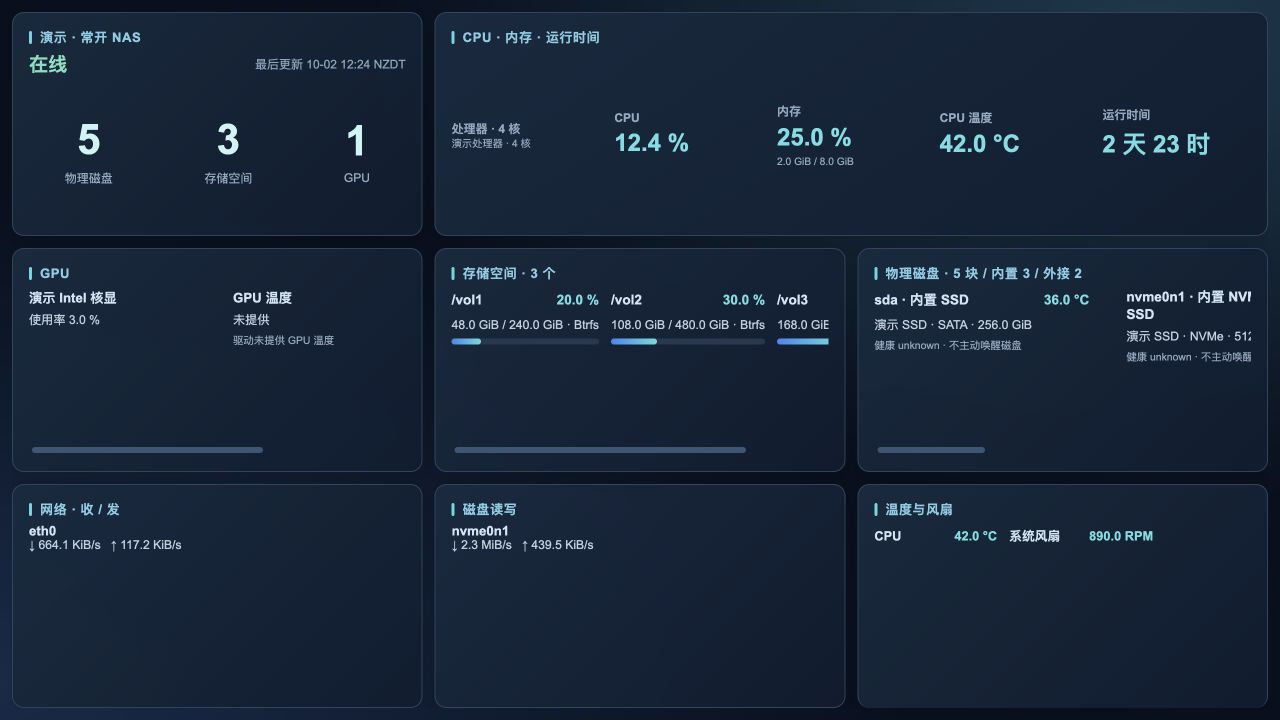
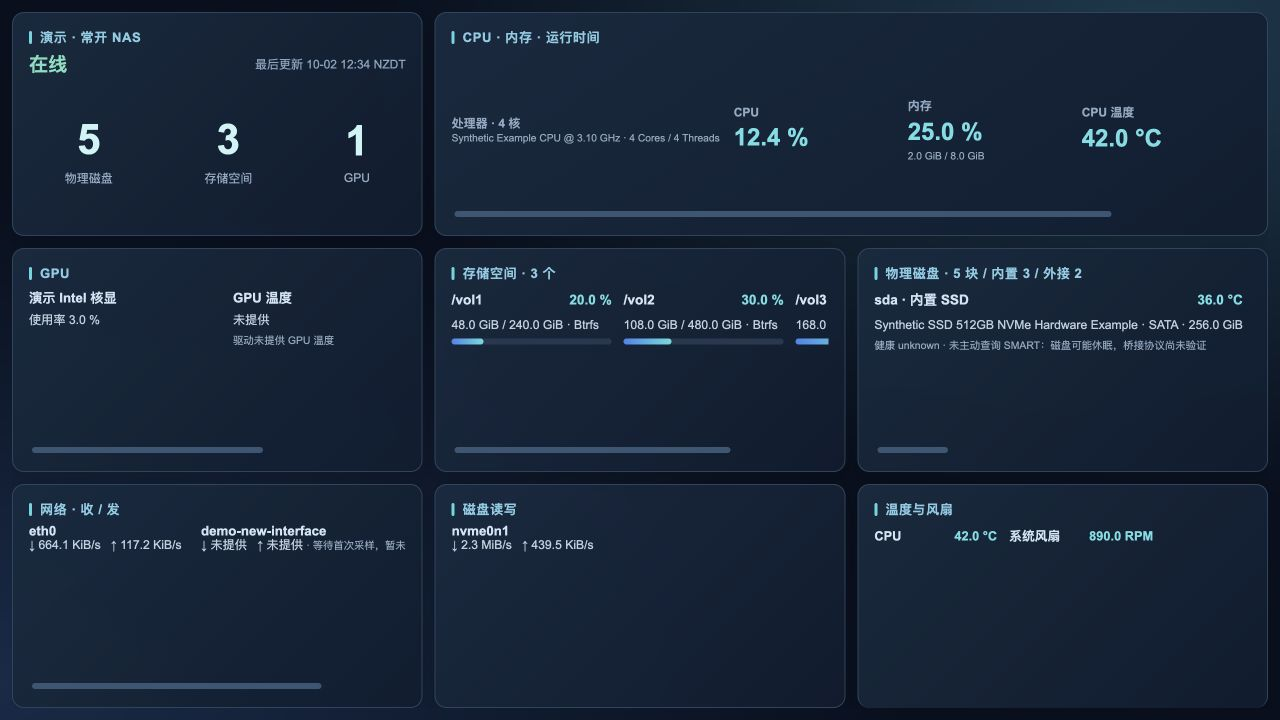
Keep long hardware fields and initial sample reasons visible

diff --git a/templates/parts.html b/templates/parts.html
@@ -10,7 +10,7 @@
 {{define "gpu"}}<div class="gpu-set"><div class="detail-row"><b>{{.Name}}</b><p>使用率 {{metric .Usage}}</p><small>{{.Usage.Reason}}</small></div><div class="detail-row"><b>GPU 温度</b><p>{{metric .Temperature}}</p><small>{{.Temperature.Reason}}</small></div><div class="detail-row"><b>显存</b><p>{{metric .MemoryUsed}} / {{metric .MemoryTotal}}</p><small>{{.MemoryUsed.Reason}}</small></div></div>{{end}}
 {{define "volume"}}<div class="detail-row"><div class="line"><b>{{.Name}}</b><strong>{{metric .Usage}}</strong></div><p>{{bytes .Used}} / {{bytes .Total}} · {{.Filesystem}}</p>{{if .Usage.Value}}<progress max="100" value="{{.Usage.Value}}"></progress>{{else}}<small>{{.Usage.Reason}}</small>{{end}}</div>{{end}}
 {{define "disk"}}<div class="detail-row"><div class="line"><b>{{.Name}} · {{if .External}}外接{{else}}内置{{end}} {{.Kind}}</b><strong>{{metric .Temperature}}</strong></div><p>{{.Model}} · {{.Interface}} · {{bytes .Size}}</p><small>健康 {{.Health}} · {{.HealthReason}} {{.Temperature.Reason}}{{if .CheckedAt}} · 检查 {{stamp .CheckedAt}}{{end}}</small></div>{{end}}
-{{define "traffic"}}<div class="detail-row"><b>{{.Name}}</b><p>↓ {{metric .Read}} &nbsp; ↑ {{metric .Write}}</p><small>{{.Read.Reason}}</small></div>{{end}}
+{{define "traffic"}}<div class="detail-row"><b>{{.Name}}</b><p>↓ {{metric .Read}} &nbsp; ↑ {{metric .Write}}{{if .Read.Reason}} <small>· {{.Read.Reason}}</small>{{end}}{{if .Write.Reason}}{{if ne .Read.Reason .Write.Reason}} <small>· {{.Write.Reason}}</small>{{end}}{{end}}</p></div>{{end}}
 {{define "sensor"}}<div class="line sensor"><b>{{.Name}}</b><strong>{{metric .Value}}</strong></div>{{end}}
 {{define "missing"}}<p class="caption">{{.}}</p>{{end}}
 {{define "block"}}<section class="block" data-block="{{.ID}}"><h2>{{.Title}}</h2>{{.Source}}{{.Content}}{{if .Rows}}<div class="rows rail" tabindex="0" aria-label="{{.Title}}，左右滚动查看更多">{{range .Rows}}<div class="row">{{.}}</div>{{end}}</div>{{end}}</section>{{end}}

diff --git a/assets/board.css b/assets/board.css
@@ -87,3 +87,8 @@ body.board{position:fixed;top:0;right:0;bottom:0;left:0;overflow:hidden;margin:0
 @media(min-width:701px) and (min-height:451px){.board .sheet:not([data-main="weather"]){grid-template-areas:'state system system' 'gpu volumes disks' 'network io sensors'}.board .metric-grid.rail>div{flex:1 0 140px;width:140px;min-width:140px}}
 @media(max-width:700px),(max-height:450px){.board .nas-summary{display:none}}
 .board.legacy .nas-summary{display:none}
+/* Hardware strings and unavailable reasons vary by device. Grow cards along
+   the horizontal rail instead of adding lines that would be clipped. */
+.board [data-block$="-disks"] .rows .row,.board [data-block$="-volumes"] .rows .row,.board [data-block$="-gpu"] .rows .row,.board [data-block$="-network"] .rows .row,.board [data-block$="-io"] .rows .row{width:auto!important;max-width:none}
+.board .detail-row{width:max-content;min-width:160px;max-width:none}.board [data-block$="-disks"] .detail-row{min-width:240px}.board .detail-row p,.board .detail-row small,.board .detail-row>b,.board .detail-row .line{white-space:nowrap}.board .gpu-set .detail-row{width:auto;min-width:190px}.board .metric-grid.rail>div{flex:0 0 auto;width:auto;min-width:160px}.board .metric-grid.rail small{white-space:nowrap}.board.legacy .metric-grid.rail>div{width:auto;min-width:160px}
+.board .detail-row p small{display:inline;font-size:.85em;line-height:inherit}

diff --git a/demo.go b/demo.go
@@ -22,15 +22,16 @@ func demoDisplay(now time.Time) Display {
 		}
 	}
 	w.Current = Conditions{Time: now, Temperature: number(18), Apparent: number(17), Humidity: number(68), Wind: number(18), Direction: number(225), Gusts: number(26), Precipitation: number(0), Pressure: number(1016), Code: 2}
-	s := &Snapshot{SchemaVersion: 1, Version: version, ObservedAt: now, Hostname: "demo-nas", Platform: "linux/amd64", CPU: CPU{Model: "演示处理器 · 4 核", Cores: 4, Usage: measured(12.4, "%"), Temperature: measured(42, "°C")}, Memory: Memory{Total: 8 << 30, Used: 2 << 30, Usage: measured(25, "%")}, Uptime: measured(258600, "s"), Capabilities: map[string]string{"intel_gpu": "演示数据"}}
+	s := &Snapshot{SchemaVersion: 1, Version: version, ObservedAt: now, Hostname: "demo-nas", Platform: "linux/amd64", CPU: CPU{Model: "Synthetic Example CPU @ 3.10 GHz · 4 Cores / 4 Threads", Cores: 4, Usage: measured(12.4, "%"), Temperature: measured(42, "°C")}, Memory: Memory{Total: 8 << 30, Used: 2 << 30, Usage: measured(25, "%")}, Uptime: measured(258600, "s"), Capabilities: map[string]string{"intel_gpu": "演示数据"}}
 	s.GPUs = []GPU{{ID: "card0", Name: "演示 Intel 核显", Kind: "Intel", Usage: measured(3, "%"), Temperature: unavailable("°C", "驱动未提供 GPU 温度"), MemoryUsed: unavailable("B", "共享显存"), MemoryTotal: unavailable("B", "共享显存")}}
 	for i := 0; i < 5; i++ {
-		s.Disks = append(s.Disks, Disk{ID: string(rune('a' + i)), Name: []string{"sda", "nvme0n1", "nvme1n1", "sdb", "sdc"}[i], Model: "演示 SSD", Interface: []string{"SATA", "NVMe", "NVMe", "USB", "USB"}[i], External: i >= 3, Kind: []string{"SSD", "NVMe SSD", "NVMe SSD", "SSD", "SSD"}[i], Size: uint64(256+i*256) << 30, Temperature: measured(float64(36+i), "°C"), Health: "unknown", HealthReason: "不主动唤醒磁盘"})
+		s.Disks = append(s.Disks, Disk{ID: string(rune('a' + i)), Name: []string{"sda", "nvme0n1", "nvme1n1", "sdb", "sdc"}[i], Model: "Synthetic SSD 512GB NVMe Hardware Example", Interface: []string{"SATA", "NVMe", "NVMe", "USB", "USB"}[i], External: i >= 3, Kind: []string{"SSD", "NVMe SSD", "NVMe SSD", "SSD", "SSD"}[i], Size: uint64(256+i*256) << 30, Temperature: measured(float64(36+i), "°C"), Health: "unknown", HealthReason: "未主动查询 SMART：磁盘可能休眠，桥接协议尚未验证"})
 		if i < 3 {
 			s.Volumes = append(s.Volumes, Volume{ID: string(rune('a' + i)), Name: []string{"/vol1", "/vol2", "/vol3"}[i], Total: uint64(240+i*240) << 30, Used: uint64(48+i*60) << 30, Usage: measured(float64(20+i*10), "%"), Filesystem: []string{"Btrfs", "Btrfs", "ext4"}[i]})
 		}
 	}
 	s.Network = []Traffic{{ID: "eth0", Name: "eth0", Read: measured(680000, "B/s"), Write: measured(120000, "B/s")}}
+	s.Network = append(s.Network, Traffic{ID: "demo-new-interface", Name: "demo-new-interface", Read: unavailable("B/s", "等待首次采样，暂未计算速率（演示设备）"), Write: unavailable("B/s", "等待首次采样，暂未计算速率（演示设备）")})
 	s.DiskIO = []Traffic{{ID: "nvme0n1", Name: "nvme0n1", Read: measured(2400000, "B/s"), Write: measured(450000, "B/s")}}
 	s.Sensors = []Sensor{{Name: "CPU", Value: measured(42, "°C")}, {Name: "系统风扇", Value: measured(890, "RPM")}}
 	last := now.Add(-3 * time.Hour)

diff --git a/types.go b/types.go
@@ -2,7 +2,7 @@ package main
 
 import "time"
 
-const version = "0.1.0-alpha.4"
+const version = "0.1.0-alpha.5"
 const schemaVersion = 1
 
 type Metric struct {

diff --git a/README.md b/README.md
@@ -2,9 +2,9 @@
 
 面向 Kindle Voyage、闲置手机和 iPad 的局域网常驻看板。电脑端管理与设备设置采用彩色控制台，设备页提供模式、字号和轮播效果预览；资源随应用打包，局域网使用不依赖外部 CDN。Kindle 和彩色看板使用独立入口。Go 服务、服务端 HTML、轻量脚本，无外部字体或 CDN。默认中文、摄氏度、24 小时制。
 
-**当前为 0.1.0-alpha.4 预览版。** 可运行服务、两种架构的原生 FPK、Docker 运行方式及自动测试已准备。飞牛 x86 已完成一次原生安装与局域网入口检查；硬件采集、Kindle Voyage、iOS 15、Android 的实机验收仍待完成，尚未上架市场。见 [验收记录](docs/验收记录.md)。
+**当前为 0.1.0-alpha.5 预览版。** 可运行服务、两种架构的原生 FPK、Docker 运行方式及自动测试已准备。飞牛 x86 已完成一次原生安装与局域网入口检查；硬件采集、Kindle Voyage、iOS 15、Android 的实机验收仍待完成，尚未上架市场。见 [验收记录](docs/验收记录.md)。
 
-[下载预览安装包](https://github.com/XLARIC/inkboard-fnos/releases/tag/v0.1.0-alpha.4) · [验收记录](docs/验收记录.md)
+[下载预览安装包](https://github.com/XLARIC/inkboard-fnos/releases/tag/v0.1.0-alpha.5) · [验收记录](docs/验收记录.md)
 
 ![彩色看板演示](docs/screenshots/color-dashboard.jpg)
 
@@ -42,7 +42,7 @@ Intel 利用率需要系统提供 intel_gpu_top，NVIDIA 需要 nvidia-smi，AMD
 
 ## Docker：纯天气看板
 
-容器不通过特权权限读取宿主机硬件。公开镜像为 ghcr.io/xlaric/inkboard-fnos:v0.1.0-alpha.4（amd64／arm64）。本次 macOS 环境直接拉取返回 denied，以下源码构建方式已验证可用；详见验收记录。
+容器不通过特权权限读取宿主机硬件。公开镜像为 ghcr.io/xlaric/inkboard-fnos:v0.1.0-alpha.5（amd64／arm64）。本次 macOS 环境直接拉取返回 denied，以下源码构建方式已验证可用；详见验收记录。
 
     cp .env.example .env
     # 把 .env 中 INKBOARD_BIND_IP 改为主机的局域网 IP

diff --git a/docs/发行说明.md b/docs/发行说明.md
@@ -1,4 +1,4 @@
-InkBoard 0.1.0-alpha.4 预览版：天气同屏、每台 NAS 独立一屏。
+InkBoard 0.1.0-alpha.5 预览版：天气同屏、每台 NAS 独立一屏。
 
 - 移除看板顶部和底部导航条、自动子分页和 Kindle 整页定时重载。
 - ES5 差量更新，保留当前 NAS、选中天气日期／小时、横向滚动与焦点；天气及时间合为一屏，完整分时与昨天／今天／未来 15 天横向浏览。
@@ -6,5 +6,7 @@ InkBoard 0.1.0-alpha.4 预览版：天气同屏、每台 NAS 独立一屏。
 - 支持滑动／鼠标拖动、方向键与 PageUp／PageDown；Kindle 区块提供上一页／下一页，Voyage PagePress 实体按键仍须按固件实测。
 - 天气区块内集中显示全屏、轮播、当前天气、显示设置和管理按钮；主页面没有滚动条，局部横向区块可滚动。
 - 安装／配置向导角色改为“仅采集器（被监控设备）”，管理示例名称改为“远端 NAS”。
-- 程序版本 alpha.4，原生 FPK 版本 0.1.3。升级前备份配置，保留位置、密码、配对与自定义端口。
+- 程序版本 alpha.5，原生 FPK 版本 0.1.4。升级前备份配置，保留位置、密码、配对与自定义端口。
 - 本版布局模拟与操作记录见 docs/验收记录.md；尚未上架飞牛应用市场。
+
+- 长硬件型号与缺失指标原因沿横向区块扩展，避免窄屏折行裁切。

diff --git a/docs/验收记录.md b/docs/验收记录.md
@@ -2,6 +2,12 @@
 
 日期：2026-10-02。状态为可安装预览版；模拟测试不能替代实机验收。
 
+## 0.1.0-alpha.5：长字段与首样本适配
+
+- 用更长的合成 CPU／SSD 型号、SMART 跳过原因和网络首样本状态再验 48 个标准字号场景，所有信息通过局部横向浏览可达，无区块纵向裁切。
+- 卡片根据型号与原因扩展宽度；网络收发缺失原因显示在同一行，避免初次采样时区块溢出。
+- 程序 alpha.5，FPK 0.1.4；alpha.4 的单屏和差量更新行为沿用。
+
 ## 0.1.0-alpha.4：单屏布局与局部更新
 
 - 新增概览结构、完整小时日期和缓存不被选择状态修改的回归测试。竞态测试与静态检查通过。
